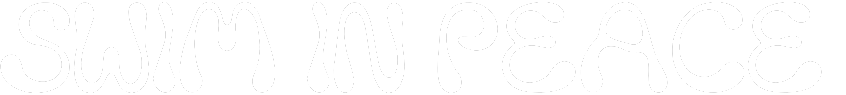
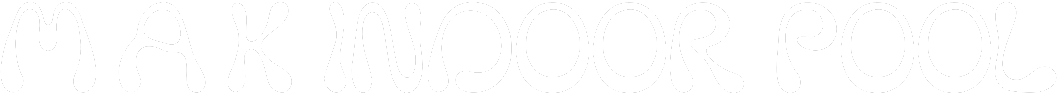
feat: replace hero headline 'SWIM IN PEACE.' with 'M.A.K INDOOR POOL' in exact fluid brand font

diff --git a/src/app/page.tsx b/src/app/page.tsx
@@ -198,12 +198,12 @@ export default function HomePage() {
           </div>
 
           {/* Main Headline with Custom Fluid/Liquid Font (ALL-CAPS) */}
-          <h1 className="w-full max-w-3xl px-2 mx-auto flex flex-col items-center justify-center">
-            <span className="sr-only">SWIM IN PEACE.</span>
+          <h1 className="w-full max-w-4xl px-2 mx-auto flex flex-col items-center justify-center">
+            <span className="sr-only">M.A.K INDOOR POOL</span>
             <img
-              src="/images/hero-swim-in-peace-caps.png"
-              alt="SWIM IN PEACE."
-              className="h-8 xs:h-9 sm:h-14 lg:h-18 w-auto max-w-[92vw] object-contain drop-shadow-[0_4px_24px_rgba(0,0,0,0.85)] select-none pointer-events-none"
+              src="/images/hero-mak-indoor-pool.png"
+              alt="M.A.K INDOOR POOL"
+              className="h-8 xs:h-9 sm:h-12 md:h-14 lg:h-16 w-auto max-w-[92vw] object-contain drop-shadow-[0_4px_24px_rgba(0,0,0,0.85)] select-none pointer-events-none"
             />
           </h1>
 
